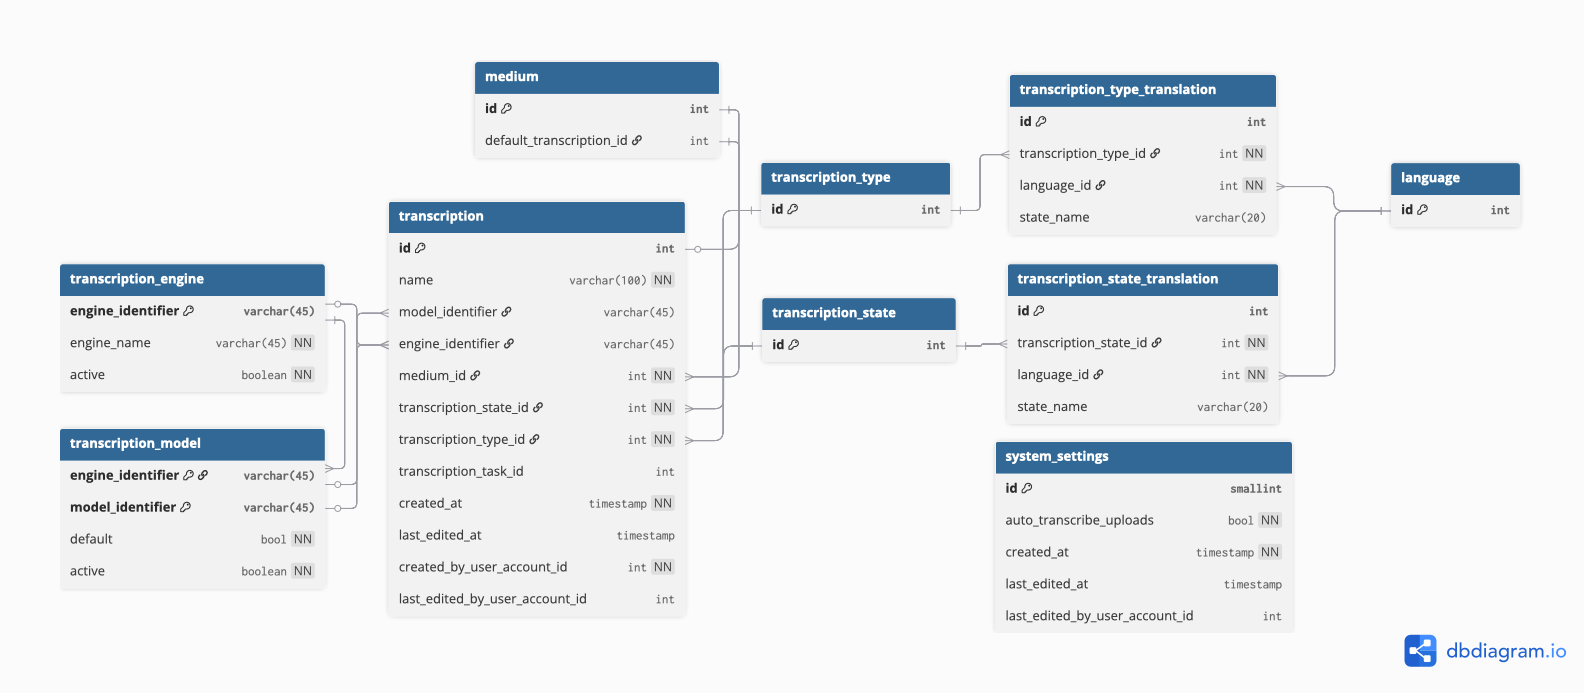
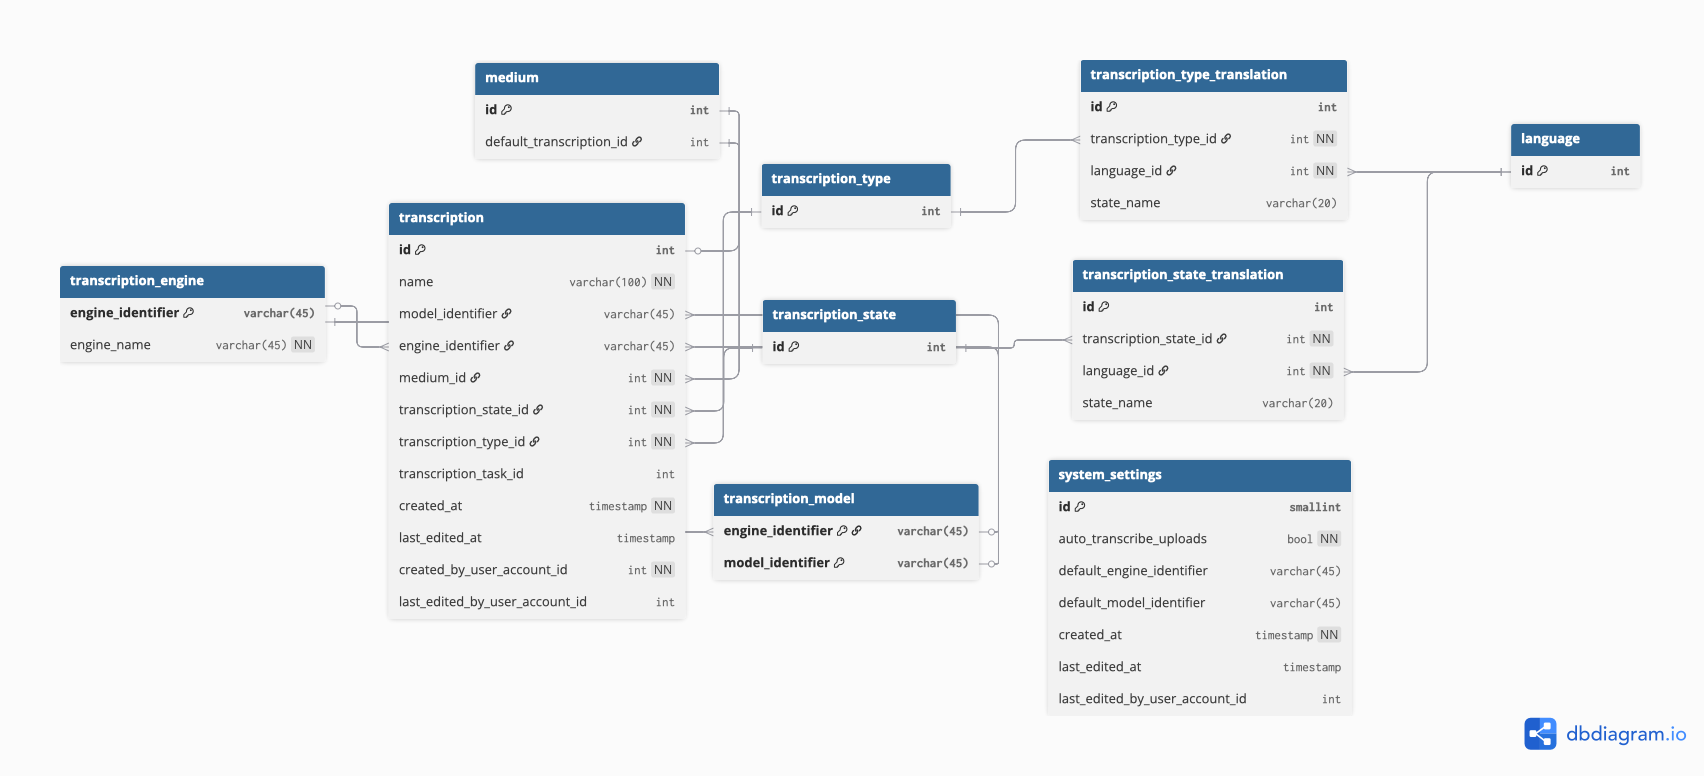
TIMAAT #57 - Improved engine and model sync
* The tables transcription_engine and transcription_model are now only used to persist the information about the model and engine used to create the transcriptions
* The default_engine and default_model are now persisted inside the system_setting table
* Added a method to TranscriptionService giving information about current available engines and models

diff --git a/src/main/java/de/bitgilde/TIMAAT/service/transcription/TranscriptionService.java b/src/main/java/de/bitgilde/TIMAAT/service/transcription/TranscriptionService.java
@@ -1,6 +1,7 @@
 package de.bitgilde.TIMAAT.service.transcription;
 
 import de.bitgilde.TIMAAT.model.FIPOP.Transcription;
+import de.bitgilde.TIMAAT.model.FIPOP.TranscriptionModel;
 import de.bitgilde.TIMAAT.service.task.TaskService;
 import de.bitgilde.TIMAAT.service.task.api.MediumAudioAnalysisTask.SupportedMediumType;
 import de.bitgilde.TIMAAT.service.task.api.Task;
@@ -9,8 +10,10 @@ import de.bitgilde.TIMAAT.service.task.api.TaskType;
 import de.bitgilde.TIMAAT.service.task.api.TranscriptionMediumPreparationTask;
 import de.bitgilde.TIMAAT.service.task.storage.TaskStateUpdater;
 import de.bitgilde.TIMAAT.service.transcription.api.GenerateTranscriptionConfiguration;
+import de.bitgilde.TIMAAT.service.transcription.api.TranscriptionEngineCapabilities;
 import de.bitgilde.TIMAAT.storage.api.PagingParameter;
 import de.bitgilde.TIMAAT.storage.api.SortingParameter;
+import de.bitgilde.TIMAAT.storage.entity.SystemSettingStorage;
 import de.bitgilde.TIMAAT.storage.entity.transcription.TranscriptionStorage;
 import de.bitgilde.TIMAAT.storage.entity.transcription.api.TranscriptionFilterCriteria;
 import de.bitgilde.TIMAAT.storage.entity.transcription.api.TranscriptionState;
@@ -23,12 +26,14 @@ import de.bitgilde.TIMAAT.storage.file.TranscriptionFileStorage;
 import de.bitgilde.TIMAAT.storage.file.VideoFileStorage;
 import jakarta.inject.Inject;
 import studio.nkodev.stt.client.SpeechToTextServiceClient;
+import studio.nkodev.stt.client.api.SpeechToTextEngine;
 import studio.nkodev.stt.client.api.SpeechToTextEngineOutputFormat;
 import studio.nkodev.stt.client.api.SpeechToTextTaskState;
 import studio.nkodev.stt.client.api.SpeechToTextTaskStateConsumer;
 
 import java.nio.file.Path;
 import java.util.Collection;
+import java.util.List;
 import java.util.Optional;
 import java.util.Set;
 import java.util.logging.Level;
@@ -47,6 +52,7 @@ public class TranscriptionService implements TaskStateUpdater, SpeechToTextTaskS
   private static final SpeechToTextEngineOutputFormat engineOutputFormat = SpeechToTextEngineOutputFormat.SRT;
 
   private final TranscriptionStorage transcriptionStorage;
+  private final SystemSettingStorage systemSettingStorage;
   private final AudioFileStorage audioFileStorage;
   private final VideoFileStorage videoFileStorage;
   private final TaskService taskService;
@@ -55,8 +61,9 @@ public class TranscriptionService implements TaskStateUpdater, SpeechToTextTaskS
   private final TranscriptionFileStorage transcriptionFileStorage;
 
   @Inject
-  public TranscriptionService(TranscriptionStorage transcriptionStorage, AudioFileStorage audioFileStorage, VideoFileStorage videoFileStorage, TaskService taskService, SpeechToTextServiceClient speechToTextServiceClient, TemporaryFileStorage temporaryFileStorage, TranscriptionFileStorage transcriptionFileStorage) {
+  public TranscriptionService(TranscriptionStorage transcriptionStorage, SystemSettingStorage systemSettingStorage, AudioFileStorage audioFileStorage, VideoFileStorage videoFileStorage, TaskService taskService, SpeechToTextServiceClient speechToTextServiceClient, TemporaryFileStorage temporaryFileStorage, TranscriptionFileStorage transcriptionFileStorage) {
     this.transcriptionStorage = transcriptionStorage;
+    this.systemSettingStorage = systemSettingStorage;
     this.audioFileStorage = audioFileStorage;
     this.videoFileStorage = videoFileStorage;
     this.taskService = taskService;
@@ -65,13 +72,27 @@ public class TranscriptionService implements TaskStateUpdater, SpeechToTextTaskS
     this.transcriptionFileStorage = transcriptionFileStorage;
 
     resumeMonitoringOfActiveTranscriptions();
+    verifyDefaultModelStillAvailable();
+  }
+
+  /**
+   * @return the engines (with their models) currently offered by the connected speech-to-text-service
+   */
+  public Collection<TranscriptionEngineCapabilities> getAvailableEngineCapabilities() {
+    return speechToTextServiceClient.getAvailableEngines().stream()
+        .map(engine -> new TranscriptionEngineCapabilities(
+            engine.engineIdentifier(),
+            engine.engineName(),
+            List.copyOf(engine.modelIdentifiers())))
+        .toList();
   }
 
   public void createTranscription(GenerateTranscriptionConfiguration generateTranscriptionConfiguration) {
     int mediumId = generateTranscriptionConfiguration.mediumId();
     String engineIdentifier = generateTranscriptionConfiguration.engineIdentifier();
     String modelIdentifier = generateTranscriptionConfiguration.modelIdentifier();
-    //TODO: Validate if engine and model is available
+
+    SpeechToTextEngine engine = validateAndUpsertEngineModel(engineIdentifier, modelIdentifier);
 
     SupportedMediumType supportedMediumType = transcriptionStorage.determineSupportedMediumType(mediumId);
     AudioContainingMediumFileStorage fileStorage = getFileStorage(supportedMediumType);
@@ -100,8 +121,27 @@ public class TranscriptionService implements TaskStateUpdater, SpeechToTextTaskS
       if (createdTranscription != null) {
         transcriptionStorage.updateTranscriptionState(createdTranscription.getId(), TranscriptionState.FAILED);
       }
+      verifyDefaultModelStillAvailable();
     }
 
+  }
+
+  private SpeechToTextEngine validateAndUpsertEngineModel(String engineIdentifier, String modelIdentifier) {
+    SpeechToTextEngine engine = speechToTextServiceClient.getAvailableEngines().stream()
+        .filter(candidate -> candidate.engineIdentifier().equals(engineIdentifier))
+        .findFirst()
+        .orElseThrow(() -> new IllegalArgumentException(
+            "Engine '" + engineIdentifier + "' is not provided by the connected speech-to-text-service"));
+
+    if (!engine.modelIdentifiers().contains(modelIdentifier)) {
+      throw new IllegalArgumentException(
+          "Model '" + modelIdentifier + "' is not provided by engine '" + engineIdentifier + "'");
+    }
+
+    transcriptionStorage.upsertEngine(engineIdentifier, engine.engineName());
+    transcriptionStorage.upsertModel(engineIdentifier, modelIdentifier);
+
+    return engine;
   }
 
   private void startTranscriptionTask(int transcriptionId, Path monoFile, String engineIdentifier, String modelIdentifier) {
@@ -161,6 +201,31 @@ public class TranscriptionService implements TaskStateUpdater, SpeechToTextTaskS
       case AUDIO -> audioFileStorage;
       case VIDEO -> videoFileStorage;
     };
+  }
+
+  private void verifyDefaultModelStillAvailable() {
+    try {
+      Optional<TranscriptionModel> defaultModel = systemSettingStorage.getDefaultTranscriptionModel();
+      if (defaultModel.isEmpty()) {
+        return;
+      }
+
+      String engineIdentifier = defaultModel.get().getId().getEngineIdentifier();
+      String modelIdentifier = defaultModel.get().getId().getModelIdentifier();
+
+      boolean stillAvailable = speechToTextServiceClient.getAvailableEngines().stream()
+          .filter(engine -> engine.engineIdentifier().equals(engineIdentifier))
+          .anyMatch(engine -> engine.modelIdentifiers().contains(modelIdentifier));
+
+      if (!stillAvailable) {
+        logger.log(Level.WARNING,
+            "Default transcription model {0}/{1} is no longer provided by the speech-to-text-service. Clearing default.",
+            new Object[]{engineIdentifier, modelIdentifier});
+        systemSettingStorage.clearDefaultTranscriptionModel();
+      }
+    } catch (Exception e) {
+      logger.log(Level.WARNING, "Could not verify availability of the default transcription model", e);
+    }
   }
 
   private void resumeMonitoringOfActiveTranscriptions() {

diff --git a/src/main/java/de/bitgilde/TIMAAT/storage/entity/transcription/TranscriptionStorage.java b/src/main/java/de/bitgilde/TIMAAT/storage/entity/transcription/TranscriptionStorage.java
@@ -3,6 +3,7 @@ package de.bitgilde.TIMAAT.storage.entity.transcription;
 import de.bitgilde.TIMAAT.db.exception.DbTransactionExecutionException;
 import de.bitgilde.TIMAAT.model.FIPOP.Medium;
 import de.bitgilde.TIMAAT.model.FIPOP.Transcription;
+import de.bitgilde.TIMAAT.model.FIPOP.TranscriptionEngine;
 import de.bitgilde.TIMAAT.model.FIPOP.TranscriptionModel;
 import de.bitgilde.TIMAAT.model.FIPOP.TranscriptionModelId;
 import de.bitgilde.TIMAAT.model.FIPOP.TranscriptionState_;
@@ -88,6 +89,40 @@ public class TranscriptionStorage extends DbStorage<Transcription, Transcription
                            "update Transcription set transcriptionTaskId = :transcriptionTaskId where id = :transcriptionId")
                    .setParameter("transcriptionId", transcriptionId)
                    .setParameter("transcriptionTaskId", transcriptionTaskId).executeUpdate();
+      return Void.TYPE;
+    });
+  }
+
+  /**
+   * Inserts a {@link TranscriptionEngine} row for the given identifier if none exists yet. The DB
+   * tables for engines and models keep a historical record of every engine/model used in a
+   * transcription; live availability is queried from the speech-to-text-service.
+   */
+  public void upsertEngine(String engineIdentifier, String engineName) {
+    executeDbTransaction(entityManager -> {
+      if (entityManager.find(TranscriptionEngine.class, engineIdentifier) == null) {
+        TranscriptionEngine engine = new TranscriptionEngine();
+        engine.setEngineIdentifier(engineIdentifier);
+        engine.setEngineName(engineName);
+        entityManager.persist(engine);
+      }
+      return Void.TYPE;
+    });
+  }
+
+  /**
+   * Inserts a {@link TranscriptionModel} row for the given engine/model pair if none exists yet.
+   */
+  public void upsertModel(String engineIdentifier, String modelIdentifier) {
+    executeDbTransaction(entityManager -> {
+      TranscriptionModelId modelId = new TranscriptionModelId();
+      modelId.setEngineIdentifier(engineIdentifier);
+      modelId.setModelIdentifier(modelIdentifier);
+      if (entityManager.find(TranscriptionModel.class, modelId) == null) {
+        TranscriptionModel model = new TranscriptionModel();
+        model.setId(modelId);
+        entityManager.persist(model);
+      }
       return Void.TYPE;
     });
   }

diff --git a/src/main/java/de/bitgilde/TIMAAT/model/FIPOP/TranscriptionModel.java b/src/main/java/de/bitgilde/TIMAAT/model/FIPOP/TranscriptionModel.java
@@ -1,6 +1,5 @@
 package de.bitgilde.TIMAAT.model.FIPOP;
 
-import jakarta.persistence.Column;
 import jakarta.persistence.EmbeddedId;
 import jakarta.persistence.Entity;
 import jakarta.persistence.Table;
@@ -11,34 +10,12 @@ public class TranscriptionModel {
   @EmbeddedId
   private TranscriptionModelId id;
 
-  @Column(name = "`default`")
-  private Boolean defaultTranscriptionModel;
-
-  @Column(name = "active")
-  private Boolean active;
-
   public TranscriptionModelId getId() {
     return id;
   }
 
   public void setId(TranscriptionModelId id) {
     this.id = id;
-  }
-
-  public Boolean getDefaultTranscriptionModel() {
-    return defaultTranscriptionModel;
-  }
-
-  public void setDefaultField(Boolean defaultTranscriptionModel) {
-    this.defaultTranscriptionModel = defaultTranscriptionModel;
-  }
-
-  public Boolean getActive() {
-    return active;
-  }
-
-  public void setActive(Boolean active) {
-    this.active = active;
   }
 
 }

diff --git a/src/main/java/de/bitgilde/TIMAAT/model/FIPOP/SystemSetting.java b/src/main/java/de/bitgilde/TIMAAT/model/FIPOP/SystemSetting.java
@@ -21,6 +21,11 @@ public class SystemSetting {
   @Column(name = "auto_transcribe_uploads", nullable = false)
   private Boolean autoTranscribeUploads;
 
+  @ManyToOne
+  @JoinColumn(name = "default_engine_identifier", referencedColumnName = "engine_identifier")
+  @JoinColumn(name = "default_model_identifier", referencedColumnName = "model_identifier")
+  private TranscriptionModel defaultTranscriptionModel;
+
   @NotNull
   @Column(name = "created_at", nullable = false)
   private Instant createdAt;
@@ -46,6 +51,14 @@ public class SystemSetting {
 
   public void setAutoTranscribeUploads(Boolean autoTranscribeUploads) {
     this.autoTranscribeUploads = autoTranscribeUploads;
+  }
+
+  public TranscriptionModel getDefaultTranscriptionModel() {
+    return defaultTranscriptionModel;
+  }
+
+  public void setDefaultTranscriptionModel(TranscriptionModel defaultTranscriptionModel) {
+    this.defaultTranscriptionModel = defaultTranscriptionModel;
   }
 
   public Instant getCreatedAt() {

diff --git a/src/main/java/de/bitgilde/TIMAAT/model/FIPOP/TranscriptionEngine.java b/src/main/java/de/bitgilde/TIMAAT/model/FIPOP/TranscriptionEngine.java
@@ -15,9 +15,6 @@ public class TranscriptionEngine {
   @Column(name = "engine_name")
   private String engineName;
 
-  @Column(name = "active")
-  private Boolean active;
-
   public String getEngineIdentifier() {
     return engineIdentifier;
   }
@@ -32,14 +29,6 @@ public class TranscriptionEngine {
 
   public void setEngineName(String engineName) {
     this.engineName = engineName;
-  }
-
-  public Boolean getActive() {
-    return active;
-  }
-
-  public void setActive(Boolean active) {
-    this.active = active;
   }
 
 }

diff --git a/src/main/java/de/bitgilde/TIMAAT/di/binder/TIMAATBinder.java b/src/main/java/de/bitgilde/TIMAAT/di/binder/TIMAATBinder.java
@@ -22,6 +22,7 @@ import de.bitgilde.TIMAAT.storage.entity.AudioAnalysisResultStorage;
 import de.bitgilde.TIMAAT.storage.entity.CategorySetStorage;
 import de.bitgilde.TIMAAT.storage.entity.CategoryStorage;
 import de.bitgilde.TIMAAT.storage.entity.MediumVideoStorage;
+import de.bitgilde.TIMAAT.storage.entity.SystemSettingStorage;
 import de.bitgilde.TIMAAT.storage.entity.TagStorage;
 import de.bitgilde.TIMAAT.storage.entity.actor.ActorStorage;
 import de.bitgilde.TIMAAT.storage.entity.analysislist.AnalysisListStorage;
@@ -83,6 +84,7 @@ public class TIMAATBinder extends AbstractBinder {
             bindAsContract(TaskExecutorFactory.class).in(Singleton.class);
             bindAsContract(TaskExecutorService.class).in(Singleton.class);
             bindAsContract(TaskService.class).in(Singleton.class);
+            bindAsContract(SystemSettingStorage.class).in(Singleton.class);
             bind(TranscriptionStorage.class).to(TranscriptionStorage.class).to(TaskStorage.class).in(Singleton.class);
             bind(TranscriptionService.class).to(TranscriptionService.class).to(TaskStateUpdater.class).in(Singleton.class);
 

diff --git a/docs/database.md b/docs/database.md
@@ -55,7 +55,7 @@ The versioning of the database schema follows the following pattern:
 * Added table `transcription` which is holding information about the available transcriptions
   * Each transcription is related to one medium
 * Added column `default_transcription_id` to table `medium` defining the transcription which is currently the default transcription of that medium
-* Added tables `transcription_engine` and `transcription_model` giving information about all engines which are currently or previously usable with the connected speech-to-text infrastructure
+* Added tables `transcription_engine` and `transcription_model` keeping a historical record of every engine/model used by a transcription. Current availability is queried live from the speech-to-text-service, so these tables hold no `active` flag and no per-row default marker.
 * Added table `transcription_state` holding the difference states a transcription can have. The table `transcription_state_translation` contains the translation strings of the states
-* Added table `system_settings` containing the runtime changeable configuration parameters related to the whole TIMAAT system.
+* Added table `system_settings` containing the runtime changeable configuration parameters related to the whole TIMAAT system. Columns `default_engine_identifier` + `default_model_identifier` reference the globally configured default transcription model (nullable, cleared at startup if the model is no longer offered by the speech-to-text-service).
   ![db_update_1_0_0_transcriptions.png](img/db_update_1_0_0_transcriptions.png)